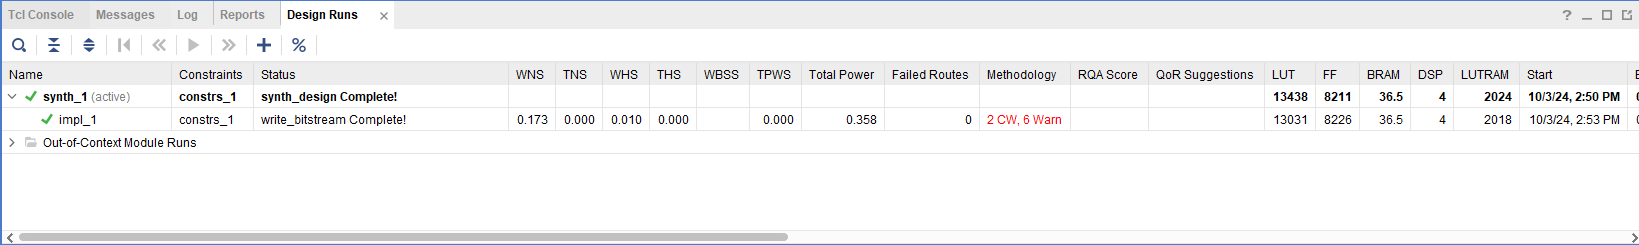
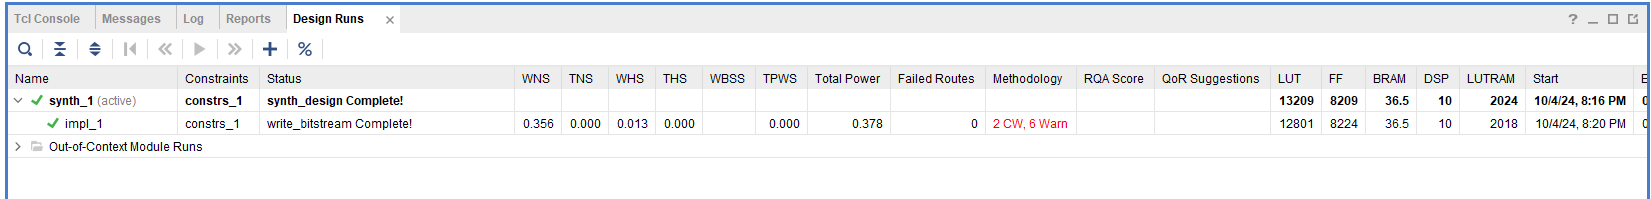
PSXv0.2,updated vivado result,added new multiplies

diff --git a/PSX.md b/PSX.md
@@ -36,11 +36,11 @@ CLEU8, CLEU16 func7 = 0x16 : Bitfield becomes 1 on condition LESS THAN UNSIGNED 
 
 CGTU8, CGTU16 func7 = 0x17 : Bitfield becomes 1 on condition GREATER THAN UNSIGNED OR EQUAL
 
-CTZ8, CTZ16 func7 = 0x20 rs2 = 0 : count trailing zeros
+MLL16 func7: 0x20: Signed Multiply two 16-bit values store lower 16 bits of both products
 
-PLC8, PLC16 func7 = 0x21 rs2 = 0 : population count
+MLH16 func7: 0x21: Signed Multiply two 16-bit values store higher 16 bits of both products
 
-SEL8, SEL16 func7 = 0x22 : Byteselect
+DOT2D func7: 0x22: Signed dot product of two 16-bit vectors -> rd = rs1[31:16] x rs2[31:16] + rs1[15:0] x rs2[15:0]
 
 SLL8, SLL16 func7 = 0x30 : Shift left
 
